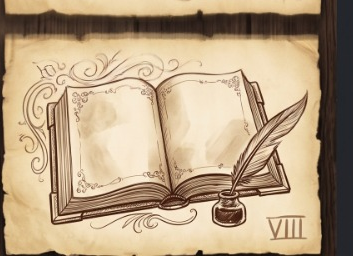
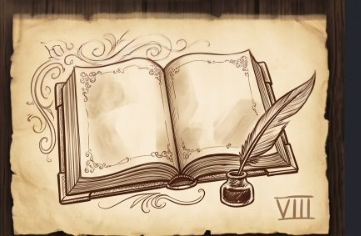
fix: precise per-card crop coordinates along actual dark wood dividers

diff --git a/frontend/index.html b/frontend/index.html
@@ -16,7 +16,7 @@
     <link rel="preconnect" href="https://fonts.gstatic.com" crossorigin />
     <link href="https://fonts.googleapis.com/css2?family=Plus+Jakarta+Sans:wght@500;600;700;800&display=swap" rel="stylesheet" />
     
-    <link rel="stylesheet" href="./assets/css/main.css?v=2.5" />
+    <link rel="stylesheet" href="./assets/css/main.css?v=2.6" />
 
     <script>
       // Global splash screen dismissal
@@ -90,6 +90,6 @@
       }
     </style>
 
-    <script type="module" src="./app.js?v=2.5"></script>
+    <script type="module" src="./app.js?v=2.6"></script>
   </body>
 </html>

diff --git a/index.html b/index.html
@@ -16,7 +16,7 @@
     <link rel="preconnect" href="https://fonts.gstatic.com" crossorigin />
     <link href="https://fonts.googleapis.com/css2?family=Plus+Jakarta+Sans:wght@500;600;700;800&display=swap" rel="stylesheet" />
     
-    <link rel="stylesheet" href="./assets/css/main.css?v=2.5" />
+    <link rel="stylesheet" href="./assets/css/main.css?v=2.6" />
 
     <script>
       // Global splash screen dismissal
@@ -90,6 +90,6 @@
       }
     </style>
 
-    <script type="module" src="./app.js?v=2.5"></script>
+    <script type="module" src="./app.js?v=2.6"></script>
   </body>
 </html>

diff --git a/assets/css/main.css b/assets/css/main.css
@@ -369,16 +369,16 @@ html, body {
 
 .level-card-image-wrap {
   width: 100%;
-  aspect-ratio: 353 / 256;
+  aspect-ratio: 350 / 260;
   overflow: hidden;
   display: flex;
   align-items: center;
   justify-content: center;
-  background: #f8fafc;
+  background: #1c1510;
 }
 
 .dark-theme .level-card-image-wrap {
-  background: #0f172a;
+  background: #120d09;
 }
 
 .level-card-img {

diff --git a/frontend/assets/css/main.css b/frontend/assets/css/main.css
@@ -369,16 +369,16 @@ html, body {
 
 .level-card-image-wrap {
   width: 100%;
-  aspect-ratio: 353 / 256;
+  aspect-ratio: 350 / 260;
   overflow: hidden;
   display: flex;
   align-items: center;
   justify-content: center;
-  background: #f8fafc;
+  background: #1c1510;
 }
 
 .dark-theme .level-card-image-wrap {
-  background: #0f172a;
+  background: #120d09;
 }
 
 .level-card-img {
